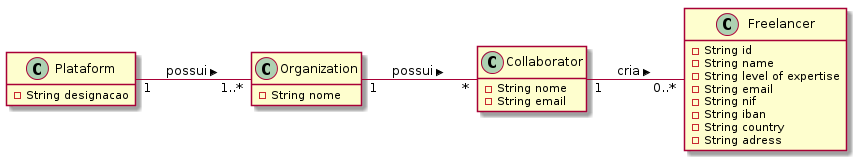
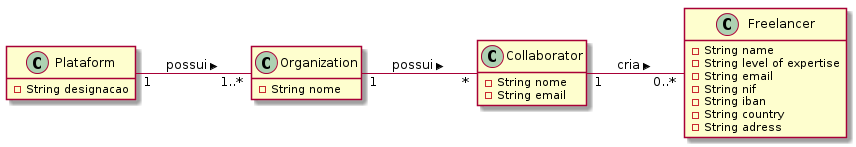
Changing in the use of cases the way id is implemented

diff --git a/docs/UC1 - Create Freelancer/UC1 - Create Freelancer.md b/docs/UC1 - Create Freelancer/UC1 - Create Freelancer.md
@@ -32,7 +32,7 @@ The freelancer stays in the system.
 ### Main sucess scene (Basic flux)
 
 1. The collaborator starts to create a new Freelancer. 
-2. The system asks needed information (i.e. id, name, level of expertise, e-mail, NIF, bank account (IBAN), address and country). 
+2. The system asks needed information (i.e. name, level of expertise, e-mail, NIF, bank account (IBAN), address and country). 
 3. The collaborator introduces the information. 
 4.The system validates and apresents the information to the collaborater, asking for confirmation. 
 5. The collaborator confirms. 
@@ -81,7 +81,7 @@ The freelancer stays in the system.
 
 ## 2. OO Analysis
 
-### Excerto do Modelo de Domínio Relevante para o UC
+### Excerpt from the Relevant Domain Model for UC
 
 ![UC1_MD.png](UC1_MD.png) 
 
@@ -96,10 +96,11 @@ The freelancer stays in the system.
 |                                                        | ...coordinates the UC? | CreateFreelancerController | Controller |
 |                                                        | ...creates the instance Freelancer? | RegisterFreelancer | HC+LC + Creator |
 |                                                        | ...knows RegisterFreelancer? | Plataform | HC+LC |
-| 2. The system asks needed information (i.e. id, name, level of expertise, e-mail, NIF, bank account (IBAN), address and country). |  |  |  |  
+| 2. The system asks needed information (i.e. name, level of expertise, e-mail, NIF, bank account (IBAN), address and country). |  |  |  |  
 | 3. The collaborator introduces the information. | ...keeps the information? | Freelancer | IE: Knows his own information | 
+|                                                 | ...generates the id for each freelancer? | Freelancer | IE: Knows his own information. |
 | 4. The system validates and apresents the information to the collaborater, asking for confirmation. | ...validates the information?(local)? | Freelancer  | IE: Knows his own information |  
-|                                                                                                    | ...validates the information(global)? | RegisterFreelancer | HC+LC |                                        
+|                                                                                                     | ...validates the information(global)? | RegisterFreelancer | HC+LC |                                        
 | 5. The collaborator confirms. |  |  |  | 
 | 6. The system regists the information and informs the collaborator about the sucess of the operation. | ...keeps the freelancer created? | RegisterFreelancer | HC+LC: Plataform delegated functions  |
 |                                                                                                       | ...informs the collaborator? | CreaterFreelancerUI | Pure Fabrication |
@@ -117,7 +118,7 @@ The freelancer stays in the system.
 
  * CreateFreelancerUI
  * CreateFreelancerController 
- * RegisterFreelancer 
+ * FreelancerRecord 
 
 
 ###     Sequence Diagram

diff --git a/docs/UC10 - Notify delayed freelancers (automatically)/UC10 - Notify Delayed Freelancers.md b/docs/UC10 - Notify delayed freelancers (automatically)/UC10 - Notify Delayed Freelancers.md
@@ -63,7 +63,7 @@ The freelancer stays informed.
 
 ## 2. OO Analysis
 
-### Excerto do Modelo de Domínio Relevante para o UC
+### Excerpt from the Relevant Domain Model for UC
 
 ![UC10_MD.png](UC10_MD.png) 
 
@@ -77,16 +77,15 @@ The freelancer stays informed.
 | 1. The collaborator starts to create a new Freelancer. | ...coordinates the UC? | NotifyFreelancersTask | Task |
 |                                                        | ...starts the process of notification? | Timer | Timer |
 |                                                        | ...creates the instance Timer? | Plataform | Creator: Plataform as knowledge of the time to start the notifications. |
-| 2. The system identifies the freelancers that have mean task delay higher than 3 hours and have a percentage of delays higher than the overall percentage of delays. After that, starts the notification of the freelancers. | ...knows RecordFreelancer? | Plataform | IE: Plataform contains RecordFreelancer (HC + LC) |
-|  | ...knows the payment transaction list? | Organization | IE : in the MD Organizations has PaymentTransactionList |
-|  | ...knows the organization? | Platform | IE : in the MD Platform has Organization |
+| 2. The system identifies the freelancers that have mean task delay higher than 3 hours and have a percentage of delays higher than the overall percentage of delays. After that, starts the notification of the freelancers. | ...knows FreelancerRecord? | Plataform | IE: Plataform contains RecordFreelancer (HC + LC) |
+|  | ...knows the PaymentTransactionList? | Platform | IE : in the MD Platform has Organization |
 |  | ...knows the each payment transaction? | PaymentTransactionList | IE: Owns the class PaymentTransaction (HC + LC) |
 |  | ...knows the task delay? | PaymentTransaction | IE: Knows its own information |  
 |  | ...knows the percentage of delays? | PaymentTransaction | IE: knows its own information  |
 |  | ...know the freelancers? | ListFreelancers | IE: Owns the class ListFreelancers (HC + LC) |
 |  |                          | PaymentTransactionList | IE : In the MD PaymentTransactionList has Freealancer |
 |  | ...knows the freelancer´s email? | Freelancer | IE: Owns his data |
-|  | ...schedules the next year´s notification? | RecordFreelancer | IE |
+|  | ...schedules the next year´s notification? | FreelacerRecord | IE |
 
 
 
@@ -106,7 +105,7 @@ The freelancer stays informed.
  * NotifyFreelancersTask
  * Timer
  * ListFreelancers
- * RecordFreelancer
+ * FreelancerRecord
  * PaymentTransactionList
 
 
